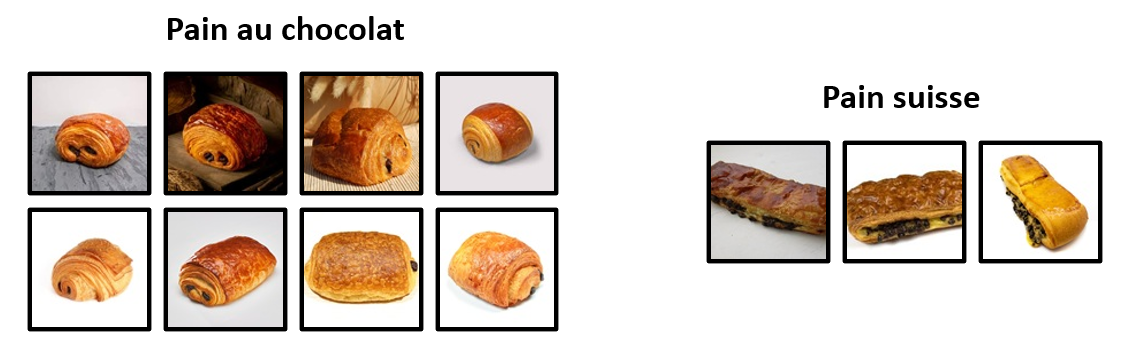
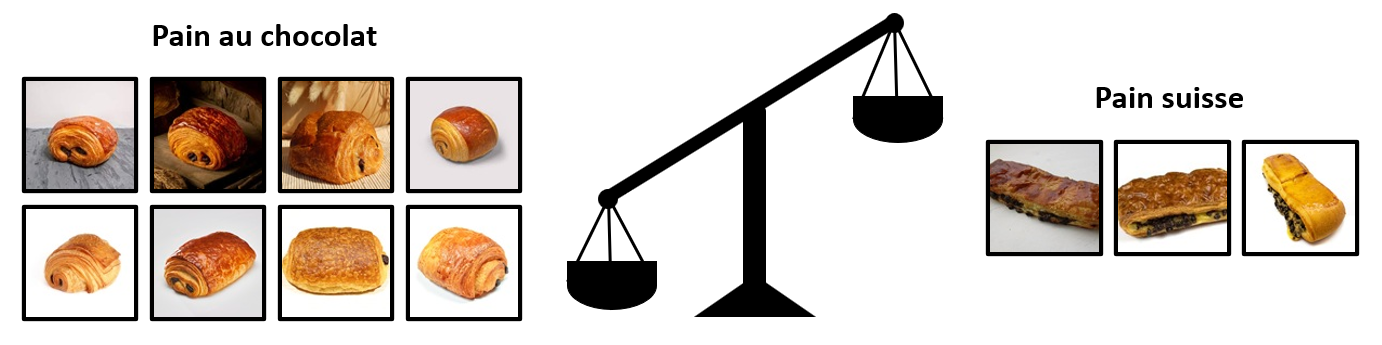
-Progress on Chapter 1.

diff --git a/docs/Chap1_Introduction.md b/docs/Chap1_Introduction.md
@@ -618,6 +618,10 @@ S'il n'y a pas de règle précise pour déterminer la **quantité de données** 
 
 * Plus le problème complexe, plus il faudra de données d'entrainement.
 
+Par exemple, dans notre exemple de classification des images de viennoiseries :
+
+![Quantité de données](img/Chap1_quantite.png)
+
 Pour donner un ordre de grandeur, la quantité d'individus nécessaires à un apprentissage va en général **de quelques milliers à des centaines de millions**.
 Cependant, il n'est pas aisé de constituer une base de données aussi large, et de surcroit une base de donnée de qualité.
 
@@ -630,7 +634,13 @@ La qualité des données peut par exemple être dégradée par :
 
 * La présence de **bruit** dans les données.
 
+Toujours pour notre exemple, on peut avoir des données manquantes ou abérrantes :
+
+![Qualité de données](img/Chap1_mauvaise_qualite.png)
+
 D'où la nécessité de procéder à un **nettoyage des données** en amont de l'apprentissage : supprimer certaines données, les combler, ou faire de nouvelles mesures.
+
+Malheureusement, nettoyer les données implique parfois de diminuer la quantité de données : on est donc souvent confronté à un **compromis entre quantité et qualité** des données.
 
 ### Représentativité et équilibre des données
 
